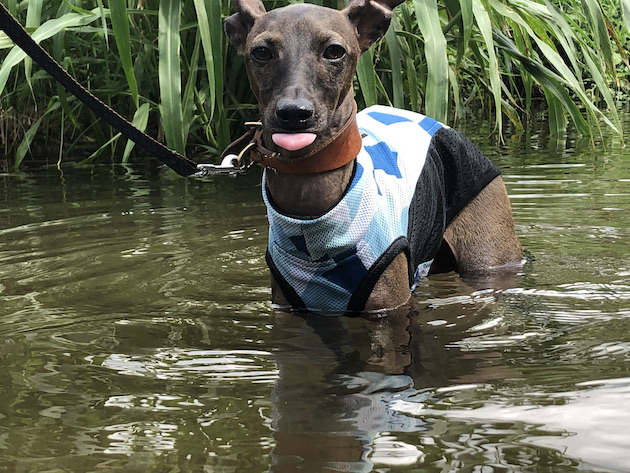
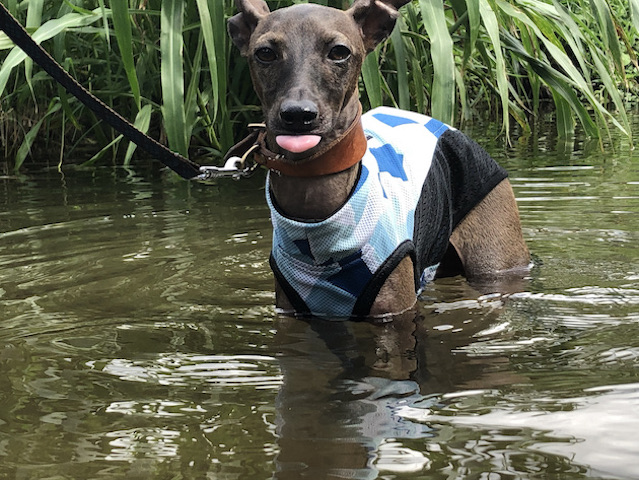
[Change]imagg-size

diff --git a/css/style.css b/css/style.css
@@ -212,7 +212,7 @@ object-fit: cover;
 }
 #feature .grid img {
   vertical-align: top;
-  max-height: 300px;
+  max-height: 250px;
   width: 100%;
   object-fit: cover;
 }
